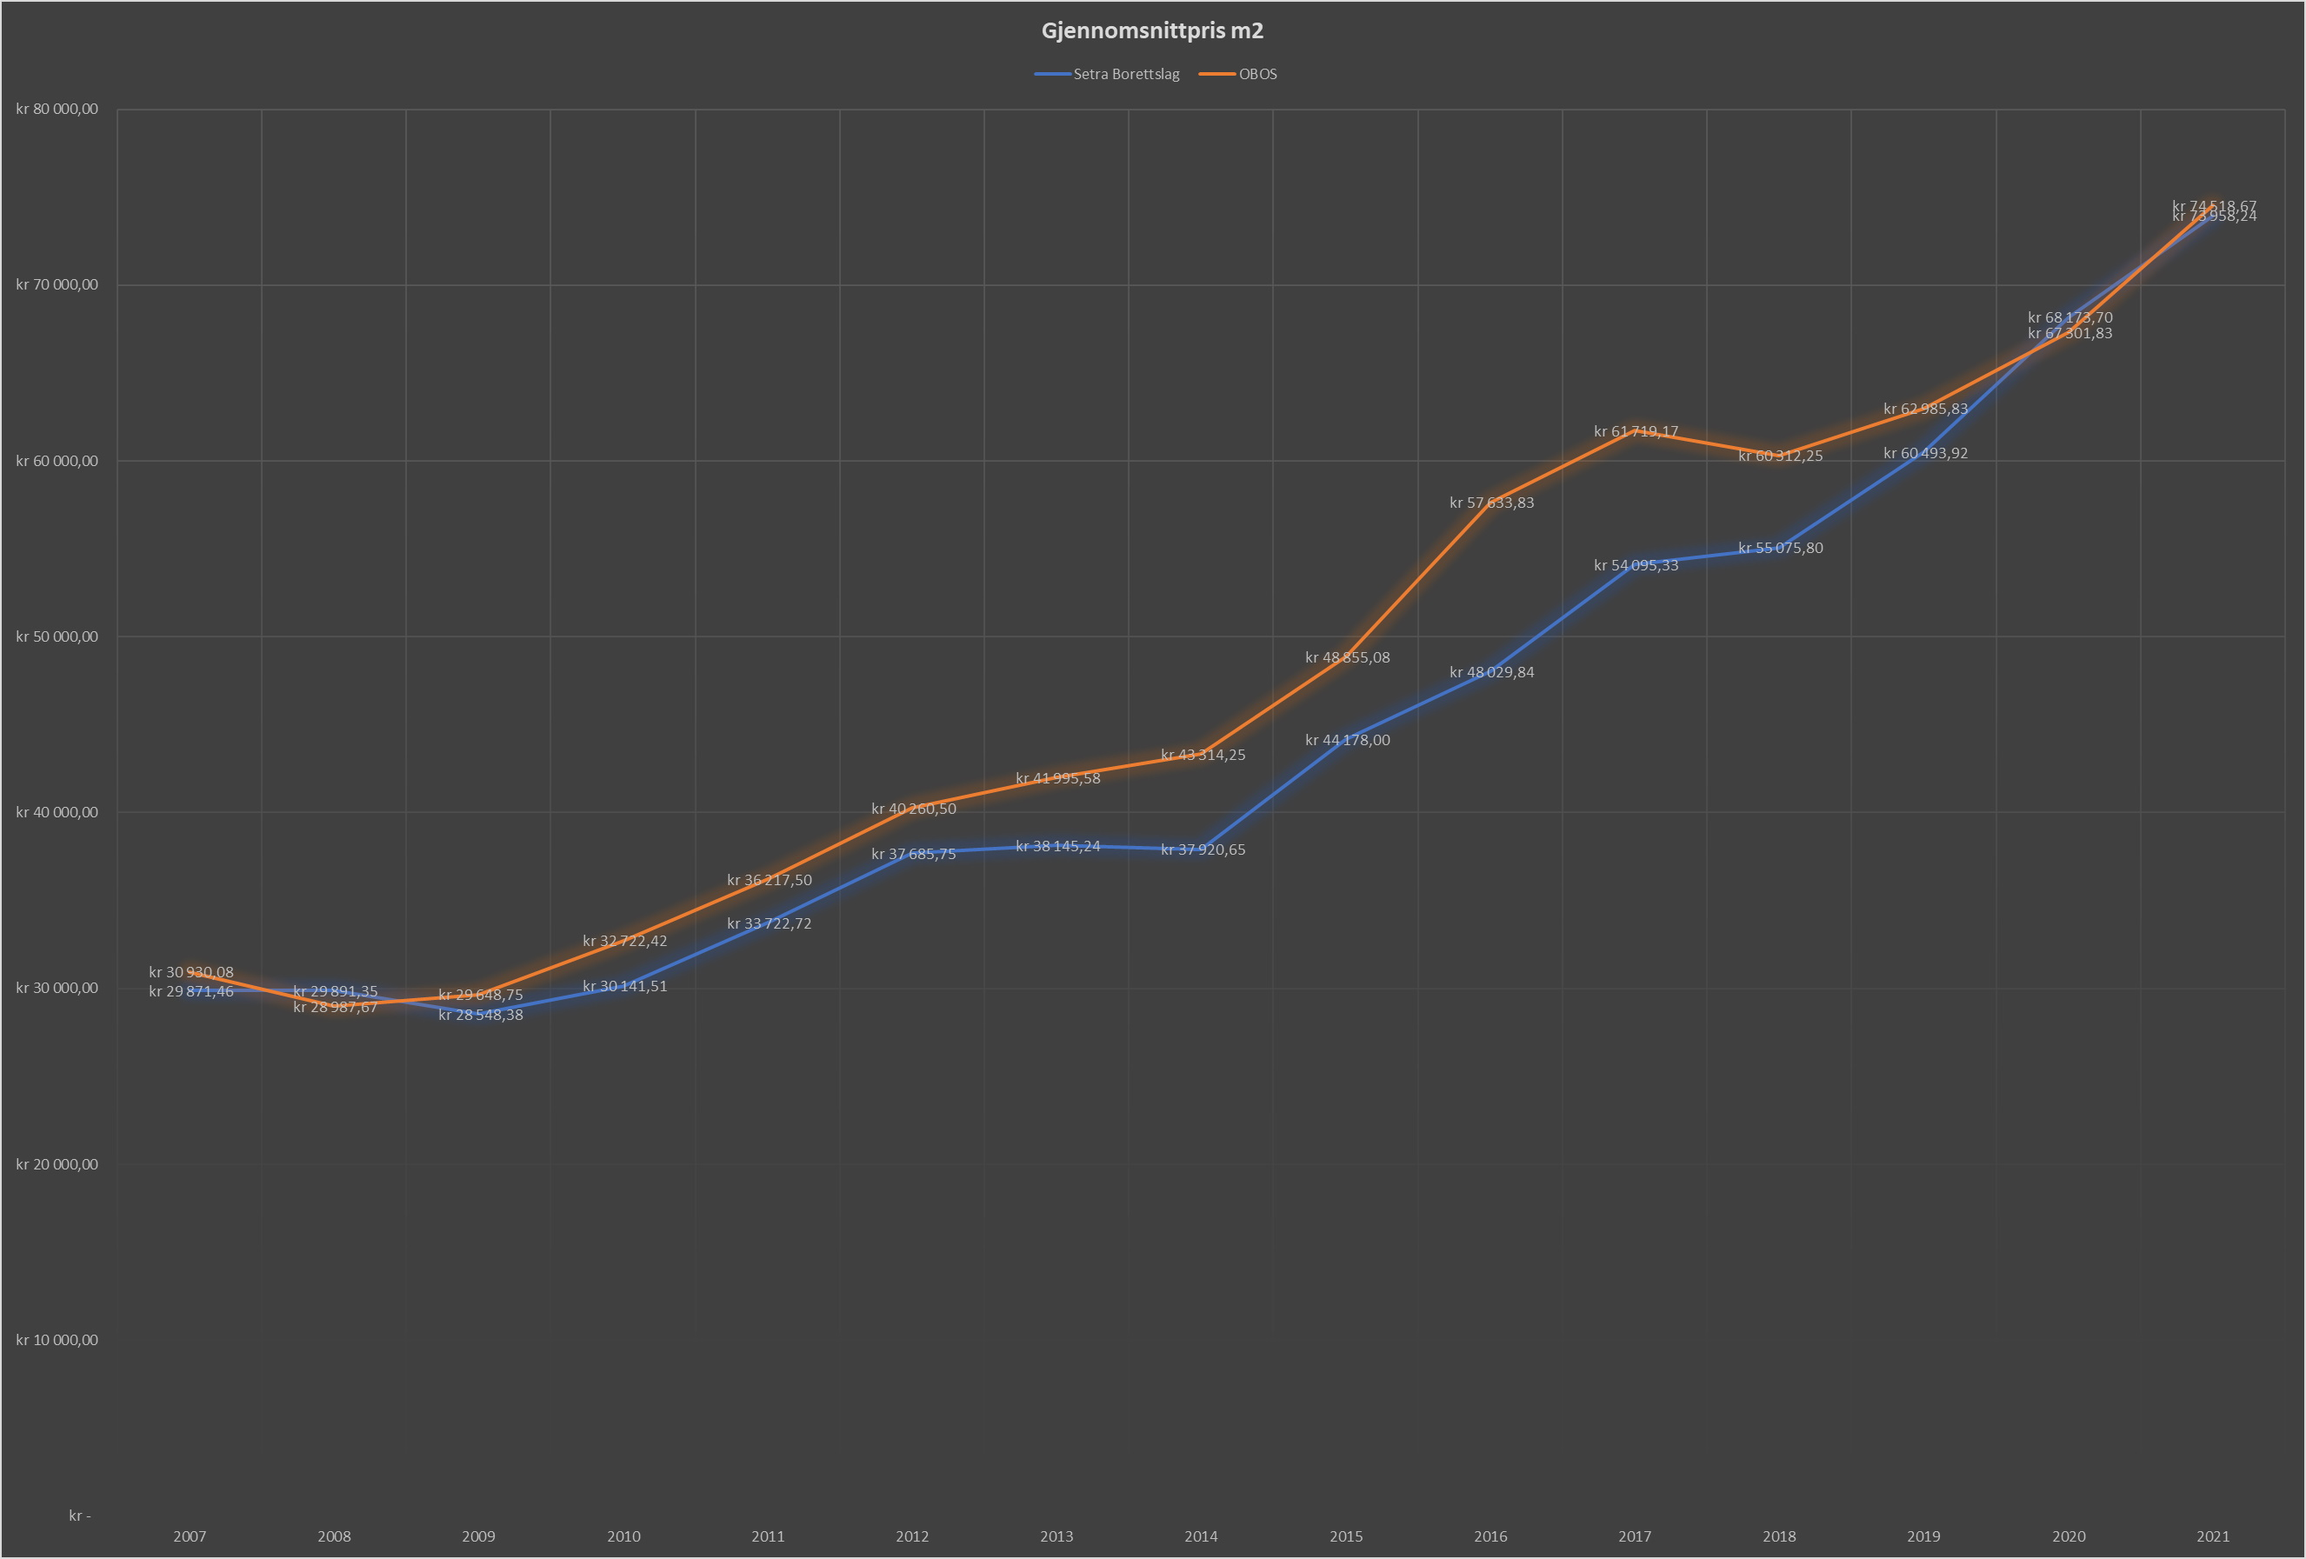
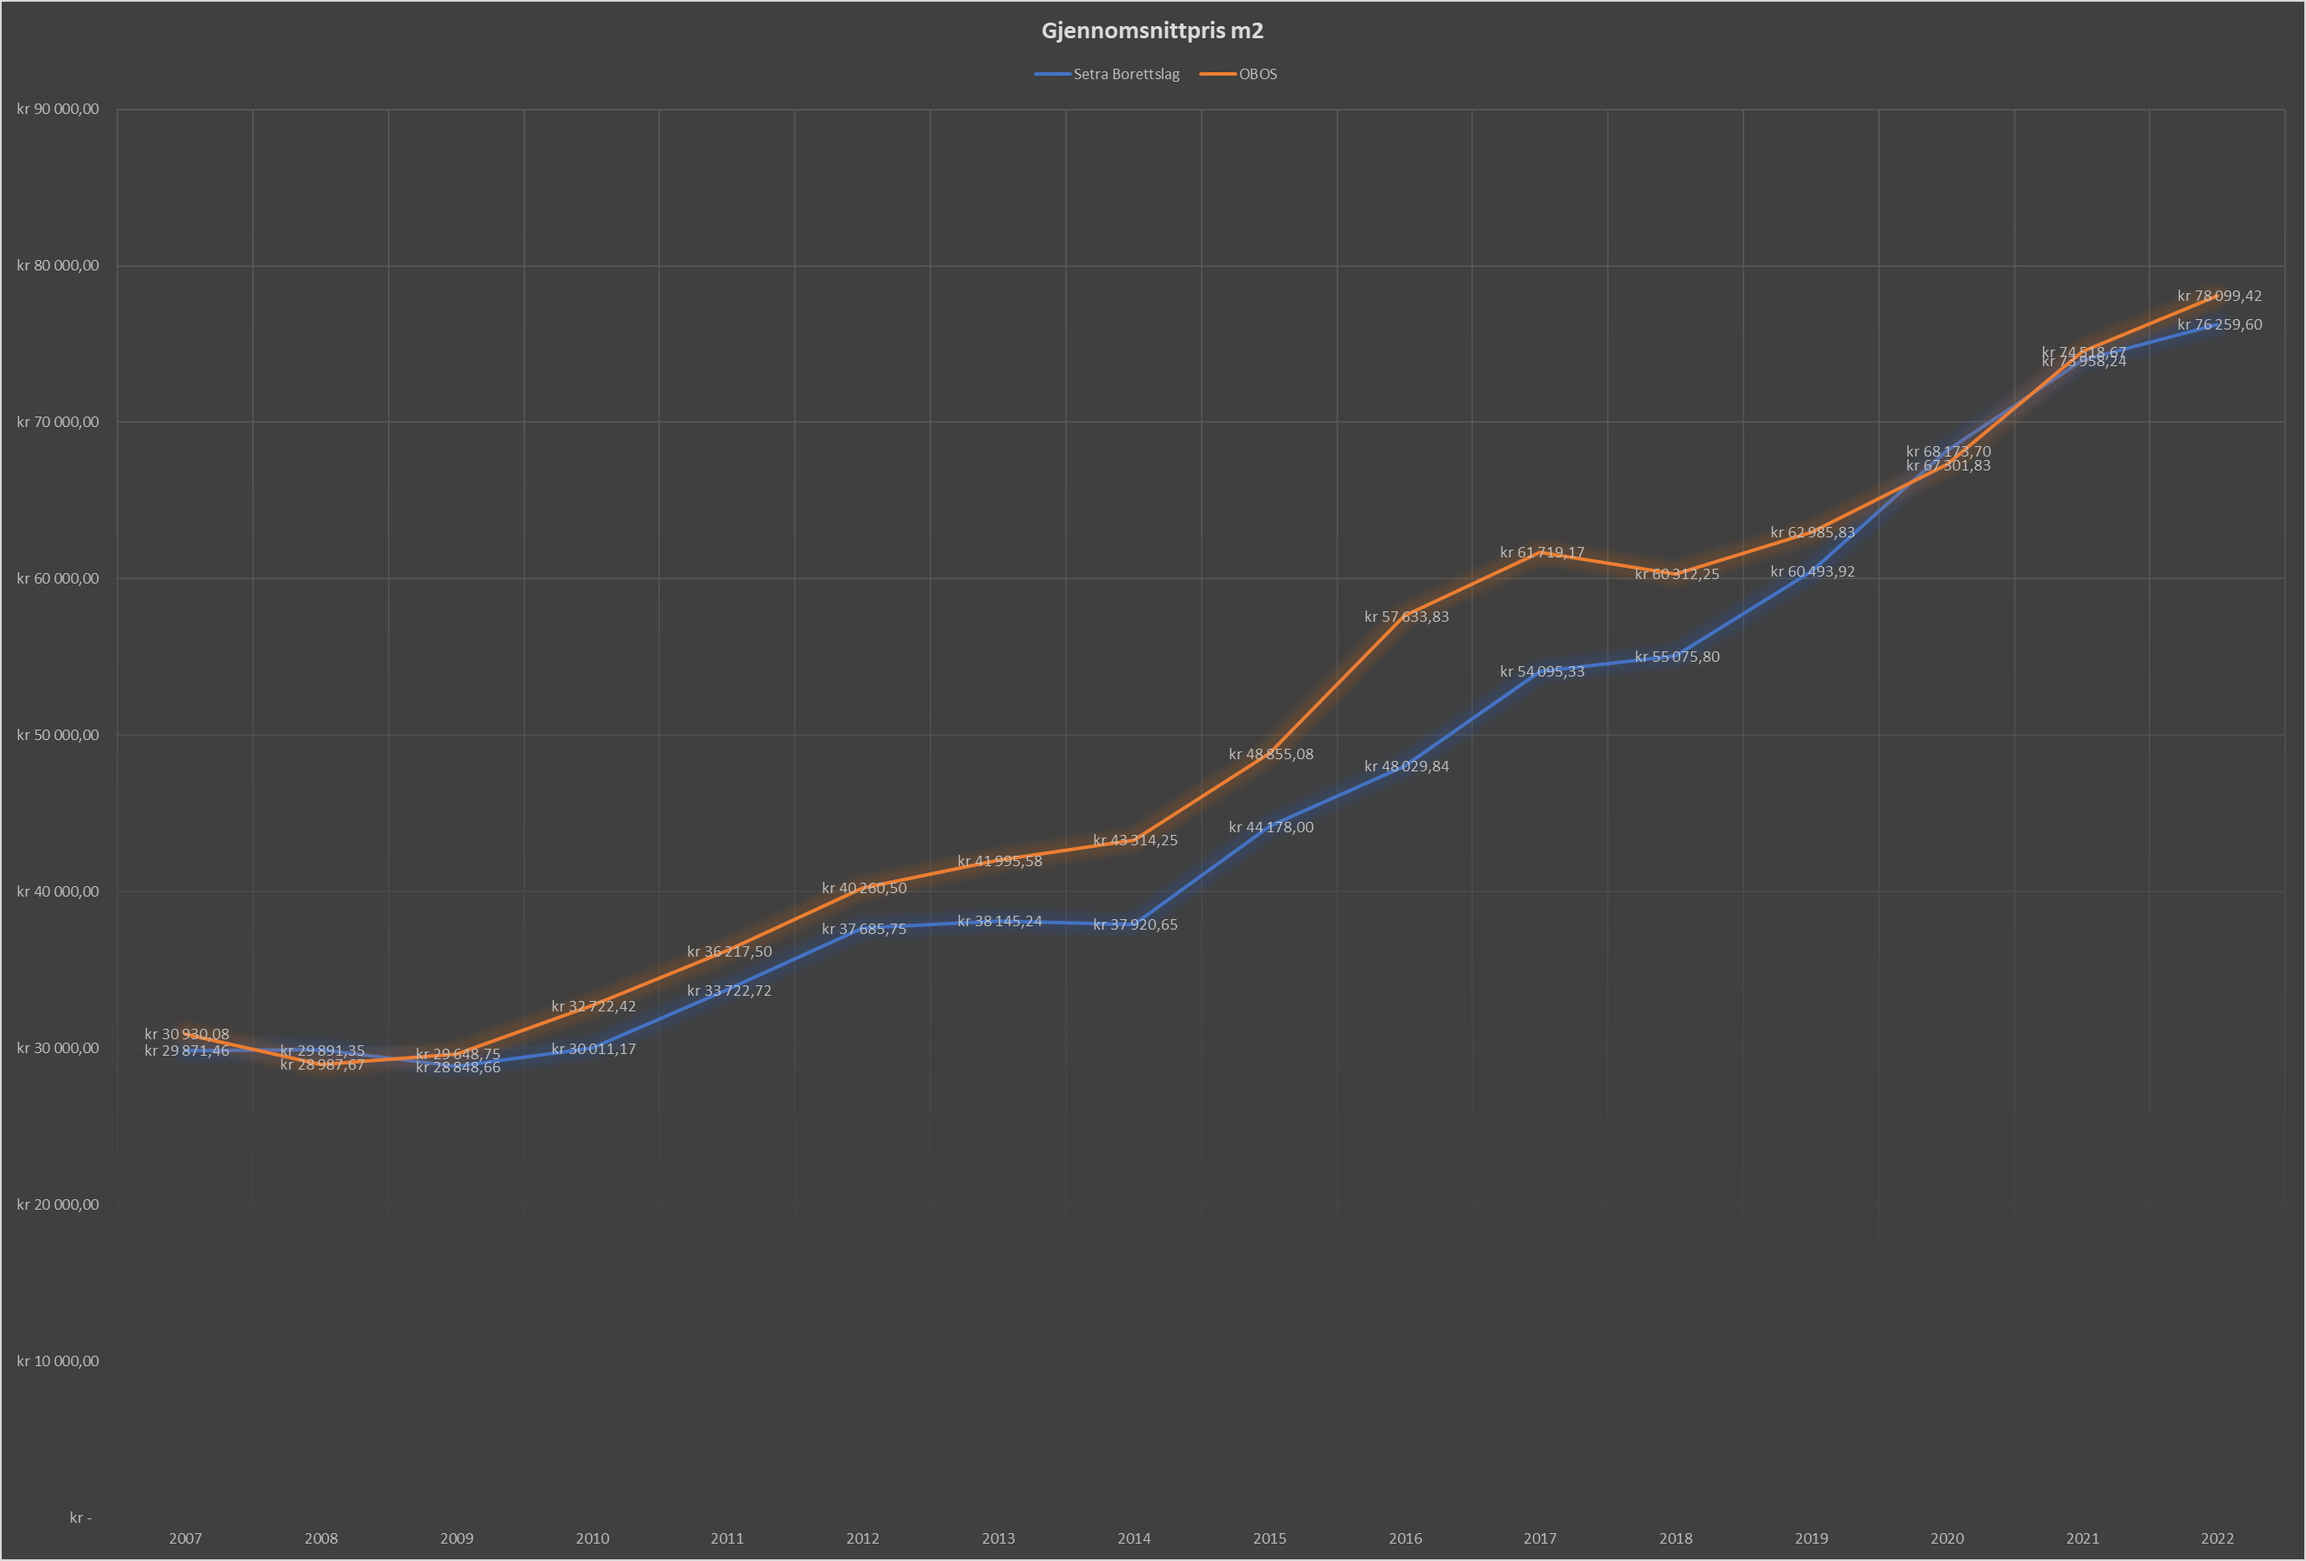
updates

Changed region(s): [[0.0618, 0.1249, 0.9894, 0.6871], [0.0, 0.8433, 0.0309, 0.8745], [0.0, 0.1562, 0.0309, 0.1874]]

diff --git a/content/about/apartments/salesstats/_index.md b/content/about/apartments/salesstats/_index.md
@@ -5,7 +5,7 @@ description:  Her finner du salgsstatistikk for Setra borettslag
 weight: 3
 ---
 
-Grafen og tabellen nedenfor viser den gjennomsnittlige prisen ink fellesgjeld for salg av leiligheter fra 2007 - 2021 for Setra Borettslag og for OBOS leiligheter generelt.  
+Grafen og tabellen nedenfor viser den gjennomsnittlige prisen ink fellesgjeld for salg av leiligheter fra 2007 - 2022 for Setra Borettslag og for snittprisen til OBOS leiligheter generelt.  
 
 De siste årene har Setra investert mye for å løfte standarden med både fasadeprosjekt og våtromsprosjekt.  Dette har ført til en utvikling som har vært en del bedre en den gjennomsnittlige prisutviklingen til OBOS leiligheter. 
 
@@ -15,6 +15,6 @@ Graf og tabell viser hvordan vi i de siste årene har tatt igjen forspranget.
 
 ![Salstatisitkk](salgstatistikktabell.png "Salgstatistikk")
  
-Gitt denne prisen er totalsummen på de 17082 m2 leilighetene i Setra består i verdt kr 1 263 354 716,66  Dette en oppgang fra  kr 484 903 386,23 i 2007
+Gitt denne prisen er totalsummen på de 17082 m2 leilighetene i Setra består i verdt kr 1 302 666 422,93 Dette en oppgang fra  kr 484 903 386,23 i 2007
 
 {{% children description="true" depth="1" %}}
